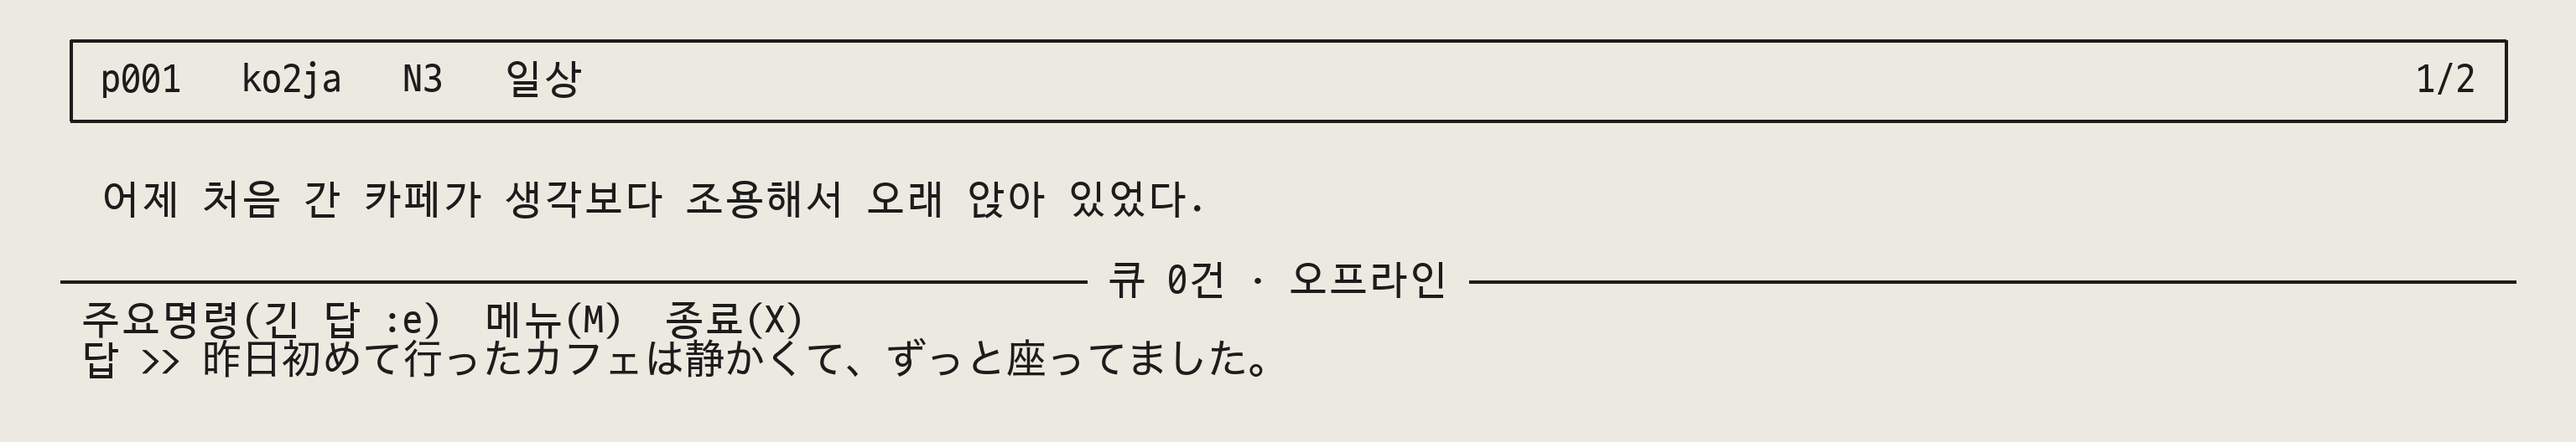
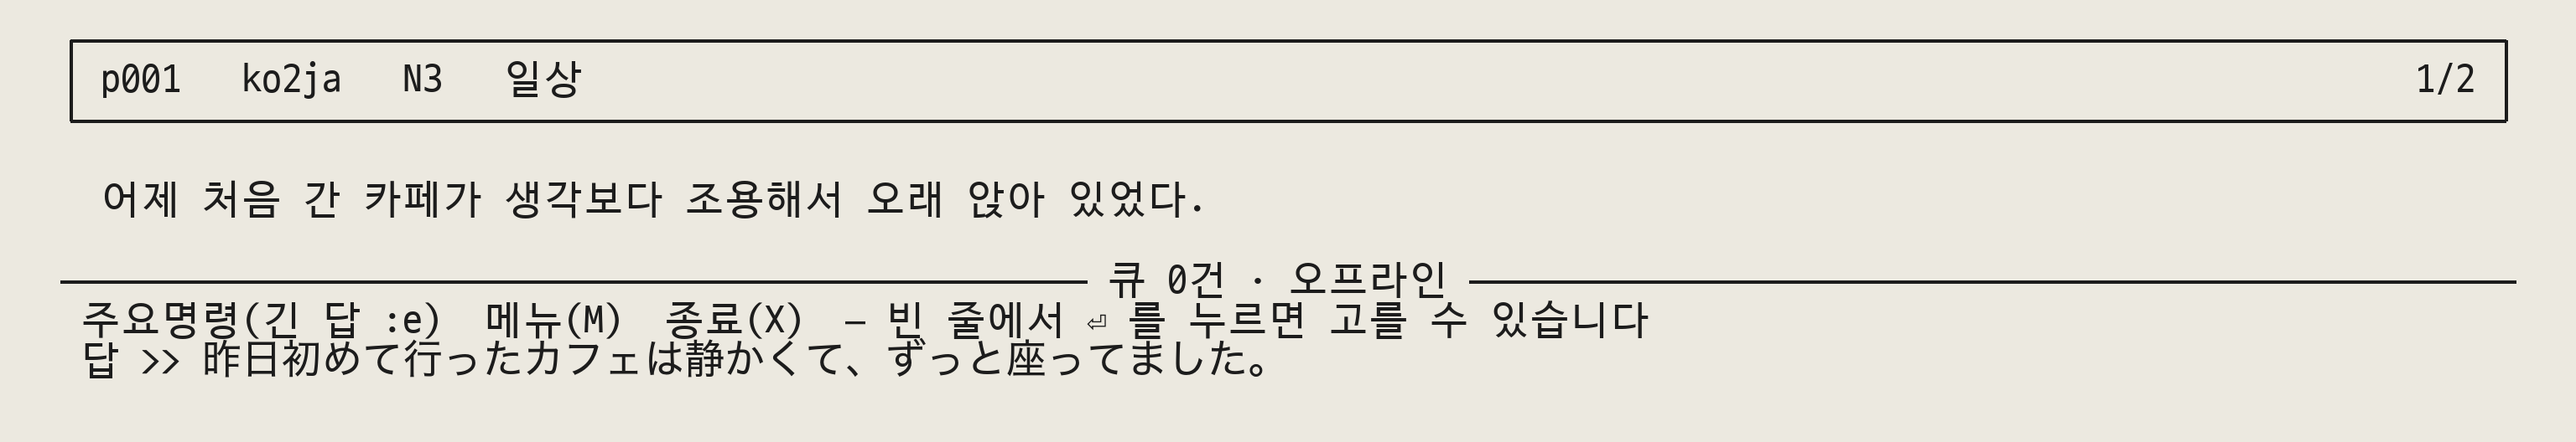
feat: 답안 화면에서도 빈 줄 ⏎ 로 고를 수 있게 한다
긴 답·메뉴·종료가 화살표로 안 간다는 지적. 답을 치는 동안에는 키를 하나씩
받을 수 없다 — 그 화면은 터미널의 보통 입력 경로를 그대로 써야 입력기가
동작하고 친 글자가 화면에 보인다. 키를 우리가 받으려면 그 에코를 꺼야 하고,
그러면 한글·일본어를 쳐도 화면에 안 나온다.

대신 아무것도 치고 있지 않은 순간에 연다. 빈 줄에서 Enter를 누르면 고르기
줄이 뜬다 — 계속 쓰기 / 긴 답(:e) / 건너뛰기 / 메뉴(M) / 종료(X). 좌우로
옮기고 Enter로 고른다. 글자 키도 그대로 받는다.

빈 줄 Enter는 원래 조용히 다음 문제로 넘어갔다. 그 동작은 「건너뛰기」로
남아 있고, 이제 무엇을 하는지 화면에 보인다.

에디터를 열었다가 빈 채로 닫으면 빈 답안이 저장되던 것도 같이 막는다.
첨삭 대기열에 들어가 값을 치르고 진도에도 푼 것으로 잡혔다.

Changed region(s): [[0.3438, 0.6667, 0.6562, 0.7879]]

diff --git a/internal/drill/drill.go b/internal/drill/drill.go
@@ -80,28 +80,25 @@ func (s *Session) Run() (Outcome, error) {
 		p := s.Problems[i]
 		st := ui.Status{Index: i + 1, Total: len(s.Problems), QueueLen: queueLen, Online: s.Online}
 
-		ui.Clear(s.Out)
-		fmt.Fprint(s.Out, ui.RenderProblem(p, st, s.TermW))
-
-		answer, eof, err := s.readAnswer()
+		answer, cmd, eof, err := s.askAnswer(p, st)
 		if err != nil {
 			return OutcomeDone, err
 		}
-		trimmed := strings.TrimSpace(answer)
-
-		// 답안 자리에서도 M/X로 빠져나갈 수 있다.
-		if trimmed != "" {
-			switch ui.ParseCommand(trimmed) {
-			case ui.CmdMenu:
-				return OutcomeMenu, nil
-			case ui.CmdQuit:
-				return OutcomeQuit, nil
-			}
-		}
-		if trimmed == "" {
+		switch cmd {
+		case ui.CmdMenu:
+			return OutcomeMenu, nil
+		case ui.CmdQuit:
+			return OutcomeQuit, nil
+		case ui.CmdNext:
 			if eof {
 				return OutcomeDone, nil
 			}
+			i++
+			continue
+		}
+		// 에디터를 열었다가 빈 채로 닫는 일이 있다. 빈 답안을 저장하면
+		// 첨삭 대기열에 들어가 값을 치르고, 진도에도 푼 것으로 잡힌다.
+		if strings.TrimSpace(answer) == "" {
 			i++
 			continue
 		}
@@ -229,15 +226,79 @@ func (s *Session) readResultCommand(p pack.Problem, answer string, a analyze.Ana
 	}
 }
 
-// readAnswer는 답안 한 줄을 읽되, ":e"면 에디터를 연다.
-func (s *Session) readAnswer() (string, bool, error) {
-	line, eof, err := ui.ReadLine(s.In)
-	if err != nil {
-		return "", eof, err
+// askAnswer는 답안을 받는다. 답 대신 다른 일을 고르면 그 명령을 돌려준다.
+//
+// 답을 치는 동안에는 키를 하나씩 받지 않는다. 그 화면은 터미널의 보통
+// 입력 경로를 그대로 써야 입력기가 동작하고 친 글자가 화면에 보인다.
+// 빈 줄에서 Enter를 누른 순간에만 — 아무것도 치고 있지 않을 때만 —
+// 고르기 줄을 띄운다.
+func (s *Session) askAnswer(p pack.Problem, st ui.Status) (string, ui.Command, bool, error) {
+	for {
+		ui.Clear(s.Out)
+		fmt.Fprint(s.Out, ui.RenderProblem(p, st, s.TermW, -1))
+
+		line, eof, err := ui.ReadLine(s.In)
+		if err != nil {
+			return "", ui.CmdStay, eof, err
+		}
+		trimmed := strings.TrimSpace(line)
+
+		if ui.IsEditorRequest(line) {
+			text, err := ui.ReadFromEditor("", "")
+			return text, ui.CmdStay, eof, err
+		}
+		// 답안 자리에서도 M/X로 빠져나갈 수 있다.
+		if trimmed != "" {
+			switch cmd := ui.ParseCommand(trimmed); cmd {
+			case ui.CmdMenu, ui.CmdQuit:
+				return "", cmd, eof, nil
+			}
+			return line, ui.CmdStay, eof, nil
+		}
+
+		if eof || s.keys == nil {
+			// 예전 그대로 — 빈 줄은 건너뛰기다.
+			return "", ui.CmdNext, eof, nil
+		}
+
+		switch cmd, err := s.chooseAnswerAction(p, st); {
+		case err != nil:
+			return "", ui.CmdStay, false, err
+		case cmd == ui.CmdEdit:
+			text, err := ui.ReadFromEditor("", "")
+			return text, ui.CmdStay, false, err
+		case cmd == ui.CmdStay:
+			// 다시 답 치는 화면으로.
+		default:
+			return "", cmd, false, nil
+		}
 	}
-	if ui.IsEditorRequest(line) {
-		text, err := ui.ReadFromEditor("", "")
-		return text, eof, err
+}
+
+// chooseAnswerAction은 답안 화면의 고르기 줄을 돌린다.
+func (s *Session) chooseAnswerAction(p pack.Problem, st ui.Status) (ui.Command, error) {
+	sel := 0
+	for {
+		ui.Clear(s.Out)
+		fmt.Fprint(s.Out, ui.RenderProblem(p, st, s.TermW, sel))
+
+		k, err := s.keys.Read()
+		if err != nil {
+			return ui.CmdStay, err
+		}
+		switch k.Key {
+		case ui.KeyQuit:
+			return ui.CmdQuit, nil
+		case ui.KeyEnter:
+			return ui.ActionAt(ui.AnswerActions, sel), nil
+		case ui.KeyLeft, ui.KeyRight:
+			sel = ui.MoveAction(sel, k.Key, len(ui.AnswerActions))
+		case ui.KeyEscape:
+			return ui.CmdStay, nil
+		case ui.KeyRune:
+			if cmd := ui.ParseCommand(string(k.Rune)); cmd != ui.CmdNext {
+				return cmd, nil
+			}
+		}
 	}
-	return line, eof, nil
 }

diff --git a/internal/ui/render.go b/internal/ui/render.go
@@ -49,7 +49,8 @@ type Status struct {
 // RenderProblem은 답안 입력 전 화면이다.
 //
 // 참조 번역을 노출하지 않는다. 답을 미리 보여주면 드릴이 성립하지 않는다.
-func RenderProblem(p pack.Problem, st Status, termW int) string {
+// sel이 0 이상이면 명령 안내 대신 고르기 줄을 그린다.
+func RenderProblem(p pack.Problem, st Status, termW int, sel int) string {
 	w := BoxWidth(termW)
 
 	var lines []string
@@ -57,10 +58,16 @@ func RenderProblem(p pack.Problem, st Status, termW int) string {
 	lines = append(lines, "")
 	lines = append(lines, wrapIndent(p.Prompt, w-4, "  ")...)
 	lines = append(lines, "")
+	commands := "주요명령(긴 답 :e)  메뉴(M)  종료(X)  — 빈 줄에서 ⏎ 를 누르면 고를 수 있습니다"
+	prompt := "답 >>"
+	if sel >= 0 {
+		commands = ActionBar(AnswerActions, sel)
+		prompt = "선택 >>"
+	}
 	lines = append(lines, CommandBarWith(
 		fmt.Sprintf("큐 %d건 · %s", st.QueueLen, connLabel(st.Online)),
-		"주요명령(긴 답 :e)  메뉴(M)  종료(X)",
-		"답 >>", w)...)
+		commands,
+		prompt, w)...)
 
 	return Page(lines, termW, w)
 }

diff --git a/internal/ui/action.go b/internal/ui/action.go
@@ -22,6 +22,20 @@ var ResultActions = []Action{
 	{CmdQuit, "X", "종료"},
 }
 
+// AnswerActions는 답안 화면에서 빈 줄로 Enter를 눌렀을 때의 선택지다.
+//
+// 답을 치는 동안에는 이 줄이 뜨지 않는다. 그 화면은 터미널의 보통 입력
+// 경로를 그대로 써야 하고 — 그래야 입력기가 동작하고 친 글자가 화면에
+// 보인다 — 키를 하나씩 받으려면 그 에코를 우리가 꺼야 하기 때문이다.
+// 아무것도 치고 있지 않은 이 순간에만 키를 하나씩 받는다.
+var AnswerActions = []Action{
+	{CmdStay, "", "계속 쓰기"},
+	{CmdEdit, ":e", "긴 답"},
+	{CmdNext, "", "건너뛰기"},
+	{CmdMenu, "M", "메뉴"},
+	{CmdQuit, "X", "종료"},
+}
+
 // ActionAt은 고른 자리의 명령을 돌려준다.
 func ActionAt(as []Action, sel int) Command {
 	if sel < 0 || sel >= len(as) {

diff --git a/internal/ui/layout_test.go b/internal/ui/layout_test.go
@@ -123,7 +123,7 @@ func TestScreensEndOnThePromptLine(t *testing.T) {
 	// 치는 답이 프롬프트 옆이 아니라 그 아래 여백 밖에 찍힌다.
 	// 스크린샷을 찍어 보고서야 드러났다.
 	screens := map[string]string{
-		"출제":   RenderProblem(sampleProblem(), sampleStatus(), 92),
+		"출제":   RenderProblem(sampleProblem(), sampleStatus(), 92, -1),
 		"결과":   RenderResult(sampleProblem(), "답안", noisyAnalysis(), sampleStatus(), 92, 0),
 		"초기화면": RenderMenu([]Choice{{Key: "41", Label: "ko2ja  N3 일상", Value: "2"}}, Status{}, 92, Cursor{}),
 		"설정":   RenderSetup(config.Default(), Status{}, 92),

diff --git a/internal/ui/live_test.go b/internal/ui/live_test.go
@@ -23,7 +23,7 @@ func TestLiveScreen(t *testing.T) {
 	st := Status{Index: 12, Total: 47, QueueLen: 12, Online: false}
 
 	fmt.Print("\n### 출제 화면\n")
-	fmt.Print(RenderProblem(p, st, 92))
+	fmt.Print(RenderProblem(p, st, 92, -1))
 
 	for _, ans := range []string{
 		"昨日初めて行ったカフェは静かくて、ずっと座ってました。",

diff --git a/internal/ui/input.go b/internal/ui/input.go
@@ -19,6 +19,8 @@ const (
 	CmdMark                    // B — 복습 목록에 넣기
 	CmdMenu                    // M — 메뉴로
 	CmdQuit                    // X — 종료
+	CmdEdit                    // :e — 에디터로 긴 답 쓰기
+	CmdStay                    // 하던 일로 돌아가기
 )
 
 // ReadLine은 한 줄을 읽는다.

diff --git a/internal/ui/render_test.go b/internal/ui/render_test.go
@@ -39,7 +39,7 @@ func noisyAnalysis() analyze.Analysis {
 }
 
 func TestRenderProblemHidesReference(t *testing.T) {
-	out := RenderProblem(sampleProblem(), sampleStatus(), 92)
+	out := RenderProblem(sampleProblem(), sampleStatus(), 92, -1)
 
 	if !strings.Contains(out, "어제 처음 간 카페") {
 		t.Error("제시문이 보여야 한다")
